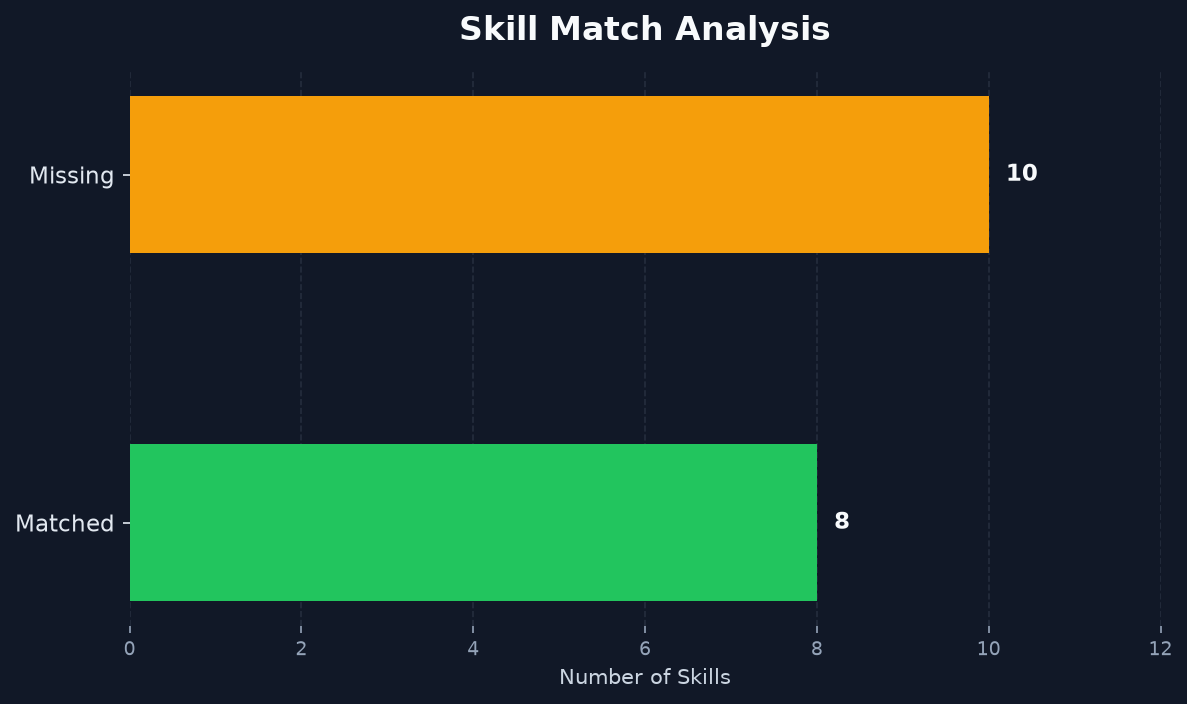
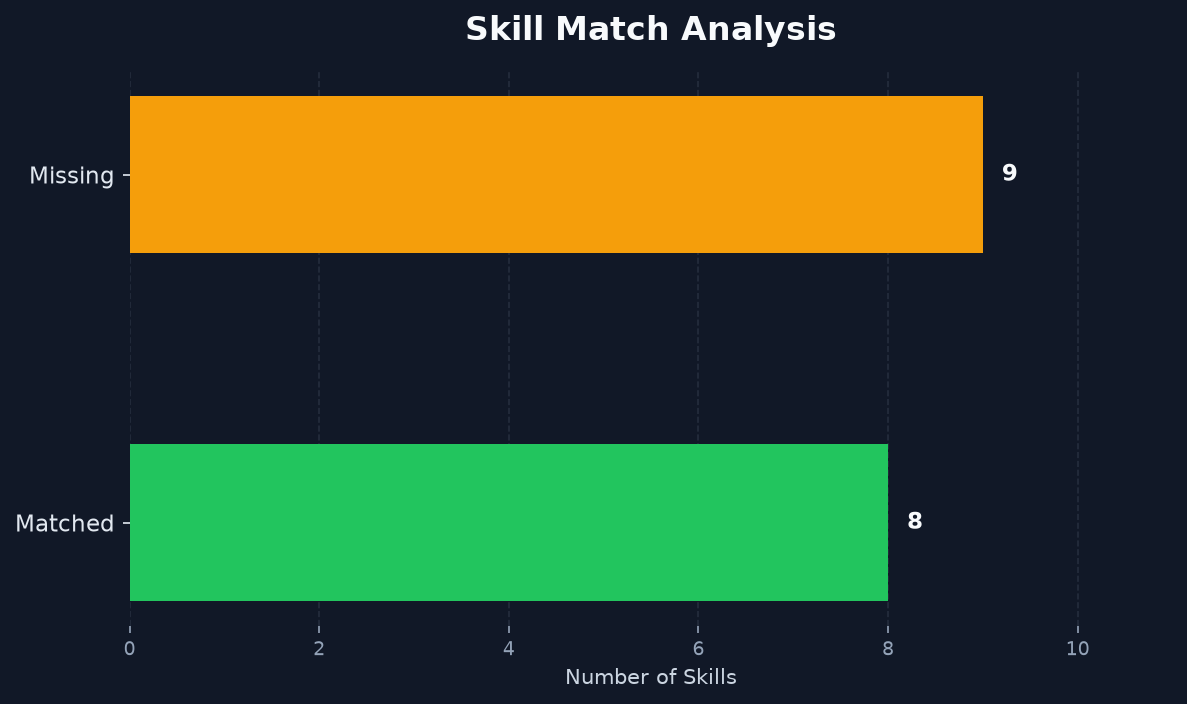
feat: enhance resume analysis with optimization and reporting

diff --git a/analyzer/chart_generator.py b/analyzer/chart_generator.py
@@ -1,5 +1,9 @@
 import os
 import matplotlib.pyplot as plt
+import matplotlib
+from PIL import Image
+
+matplotlib.use("Agg")
 
 # ==========================================================
 # Charts Folder
@@ -118,9 +122,7 @@ def create_skill_pie_chart(matched_count, missing_count):
         facecolor=fig.get_facecolor()
     )
 
-    plt.close(fig)
-
-    return chart_path
+    return fig
 
 
 # ==========================================================
@@ -216,13 +218,13 @@ def create_ats_bar_chart(breakdown):
         "ats_breakdown_chart.png"
     )
 
+    fig.canvas.draw()
+
     plt.savefig(
         chart_path,
-        dpi=150,
+        dpi=200,
         bbox_inches="tight",
         facecolor=fig.get_facecolor()
     )
 
-    plt.close(fig)
-
-    return chart_path
+    return fig

diff --git a/analyzer/resume_optimizer.py b/analyzer/resume_optimizer.py
@@ -12,19 +12,19 @@ def optimize_resume(pdf, job_description):
     prompt = f"""
 You are an expert ATS Resume Writer.
 
-Your task is to improve the resume for the given Job Description.
+Rewrite the resume to better match the given Job Description.
 
 Rules:
 
-- Do NOT invent experience.
-- Do NOT invent projects.
-- Do NOT invent skills.
-- Rewrite existing content professionally.
+- Never invent experience.
+- Never invent projects.
+- Never invent certifications.
+- Never invent skills.
+- Improve wording.
 - Improve ATS keywords.
 - Improve formatting.
 - Improve bullet points.
-- Suggest stronger action verbs.
-- Highlight missing keywords from the job description.
+- Keep everything truthful.
 - Return the optimized resume in Markdown.
 
 Resume:

diff --git a/app.py b/app.py
@@ -140,14 +140,12 @@ ATS scoring, intelligent job matching, and AI-powered resume feedback.
             )
 
             with gr.Row():
-                skill_chart_image = gr.Image(
-                    label="🥧 Skill Matching Chart",
-                    type="filepath"
+                skill_chart_image = gr.Plot(
+                    label="🥧 Skill Matching Chart"
                 )
 
-                ats_chart_image = gr.Image(
-                    label="📊 ATS Breakdown Chart",
-                    type="filepath"
+                ats_chart_image = gr.Plot(
+                    label="📊 ATS Breakdown Chart"
                 )
 
             ai_feedback_box = gr.Markdown(

diff --git a/analyzer/resume_service.py b/analyzer/resume_service.py
@@ -171,6 +171,11 @@ def analyze_resume(pdf, jd):
         ats_breakdown
     )
 
+    print("Skill Chart:", skill_chart)
+    print("ATS Chart:", ats_chart)
+    print(type(skill_chart))
+    print(type(ats_chart))
+
     # ------------------------------------------------------
     # Return
     # ------------------------------------------------------
